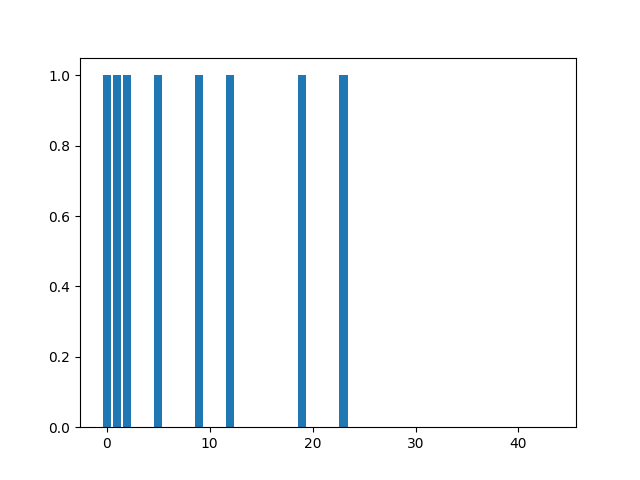
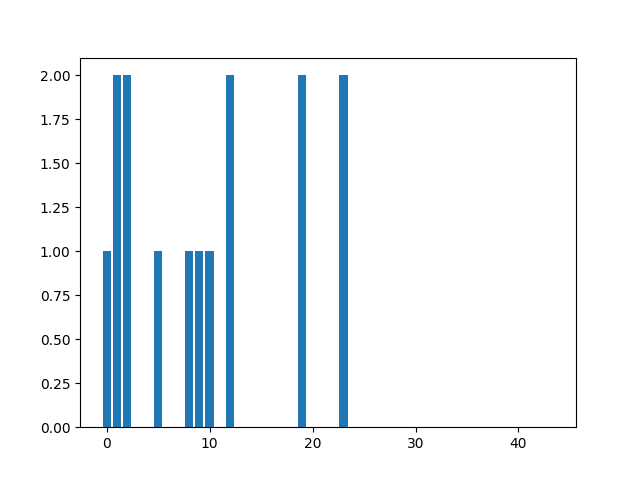
first version

diff --git a/Model/Heuristic.py b/Model/Heuristic.py
@@ -41,6 +41,8 @@ class Two_step_algorithm:
             link_cap.append(graph.link_list[l].cons / graph.link_list[l].ban * 100)
             link_name.append(l)
         # print(node_cap)
+
+
         plt1.bar(graph.node_name_list, node_cpu_cap)
         # plt.show()
         plt1.savefig('result_cpu_Heuristic.png')
@@ -64,6 +66,9 @@ class Two_step_algorithm:
         nodes_cpu_cap = 0
         nodes_mem_cap = 0
         mem = 0
+        len_paths = 0
+        for k in k_path:
+            len_paths += len(k)
         for k in k_path:
             for n in range(len(k) - 1):
                 for l in range(len(graph.link_list)):
@@ -89,15 +94,18 @@ class Two_step_algorithm:
                 # node_mem_cap = 0
             cpu /= len(k)
             mem /= len(k)
+            # print(len(k), len_paths)
             print("link cap is {} and cpu is {} and mem is {}".format(link_cap, cpu, mem))
             path_cost.append((1 - self.input_cons.alpha) * link_cap +
                              self.input_cons.alpha *
                              # (max(nodes_cpu_cap, nodes_mem_cap))
-                             (10 / 21 * cpu + 11 / 21 * mem) / 2
+                             (cpu + mem) / 2 +
+                             len_paths / len(k) * 0.001
                              )
             link_cap = 0
             cpu = 0
             mem = 0
+        print("paths cost is {}".format(path_cost))
         minimum = float("inf")
         idx = 0
         for i_, i in enumerate(path_cost):

diff --git a/Given/InputConstants.py b/Given/InputConstants.py
@@ -42,4 +42,4 @@ class Inputs:
     td = 3
 
     k_path_num = 3
-    alpha = 0.5
+    alpha = 0.9
